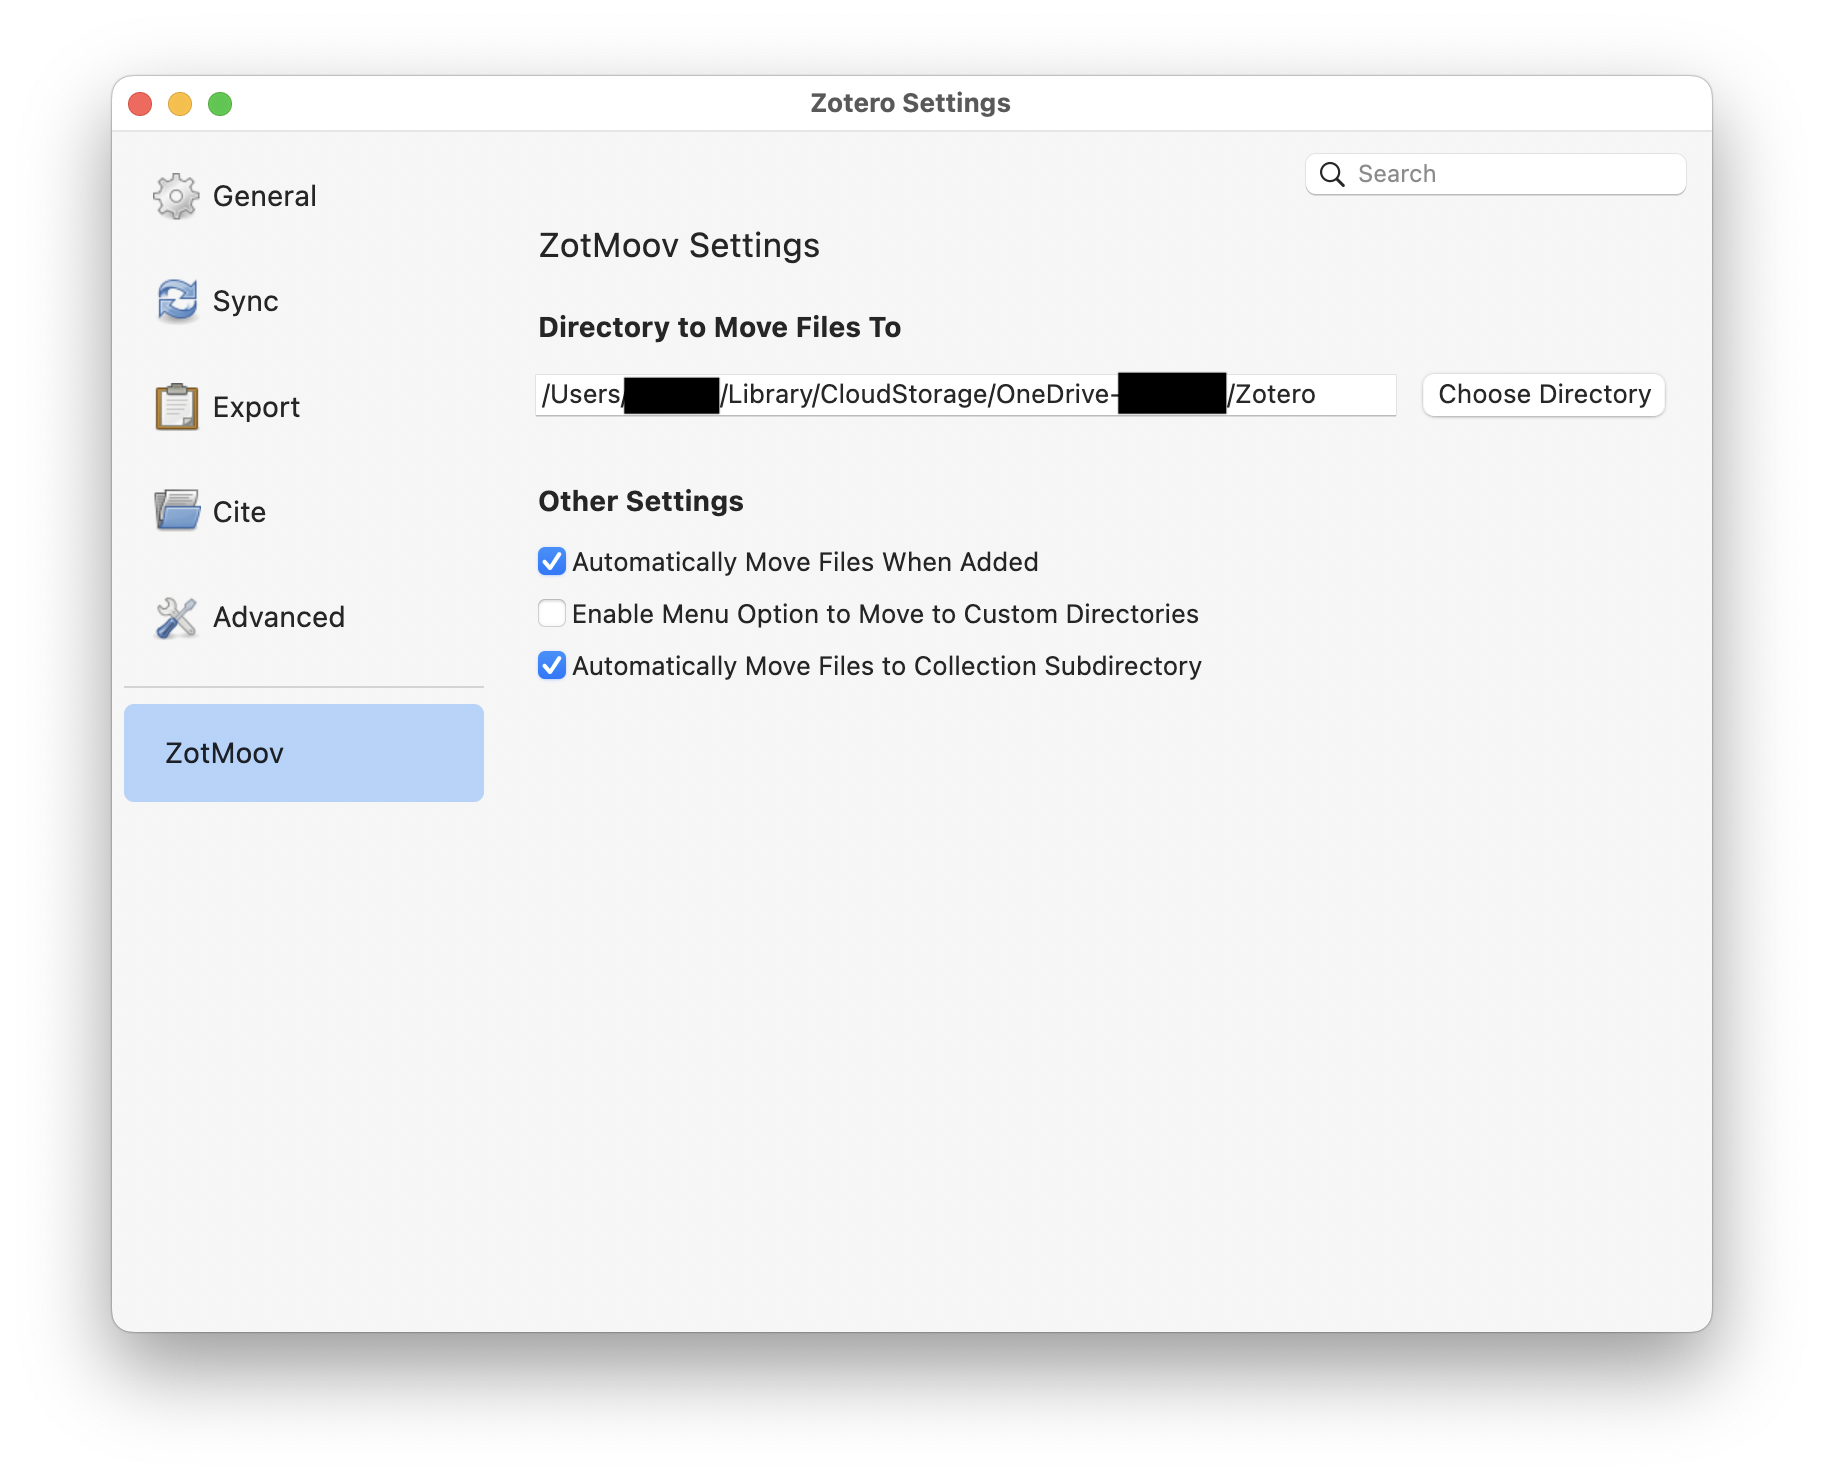
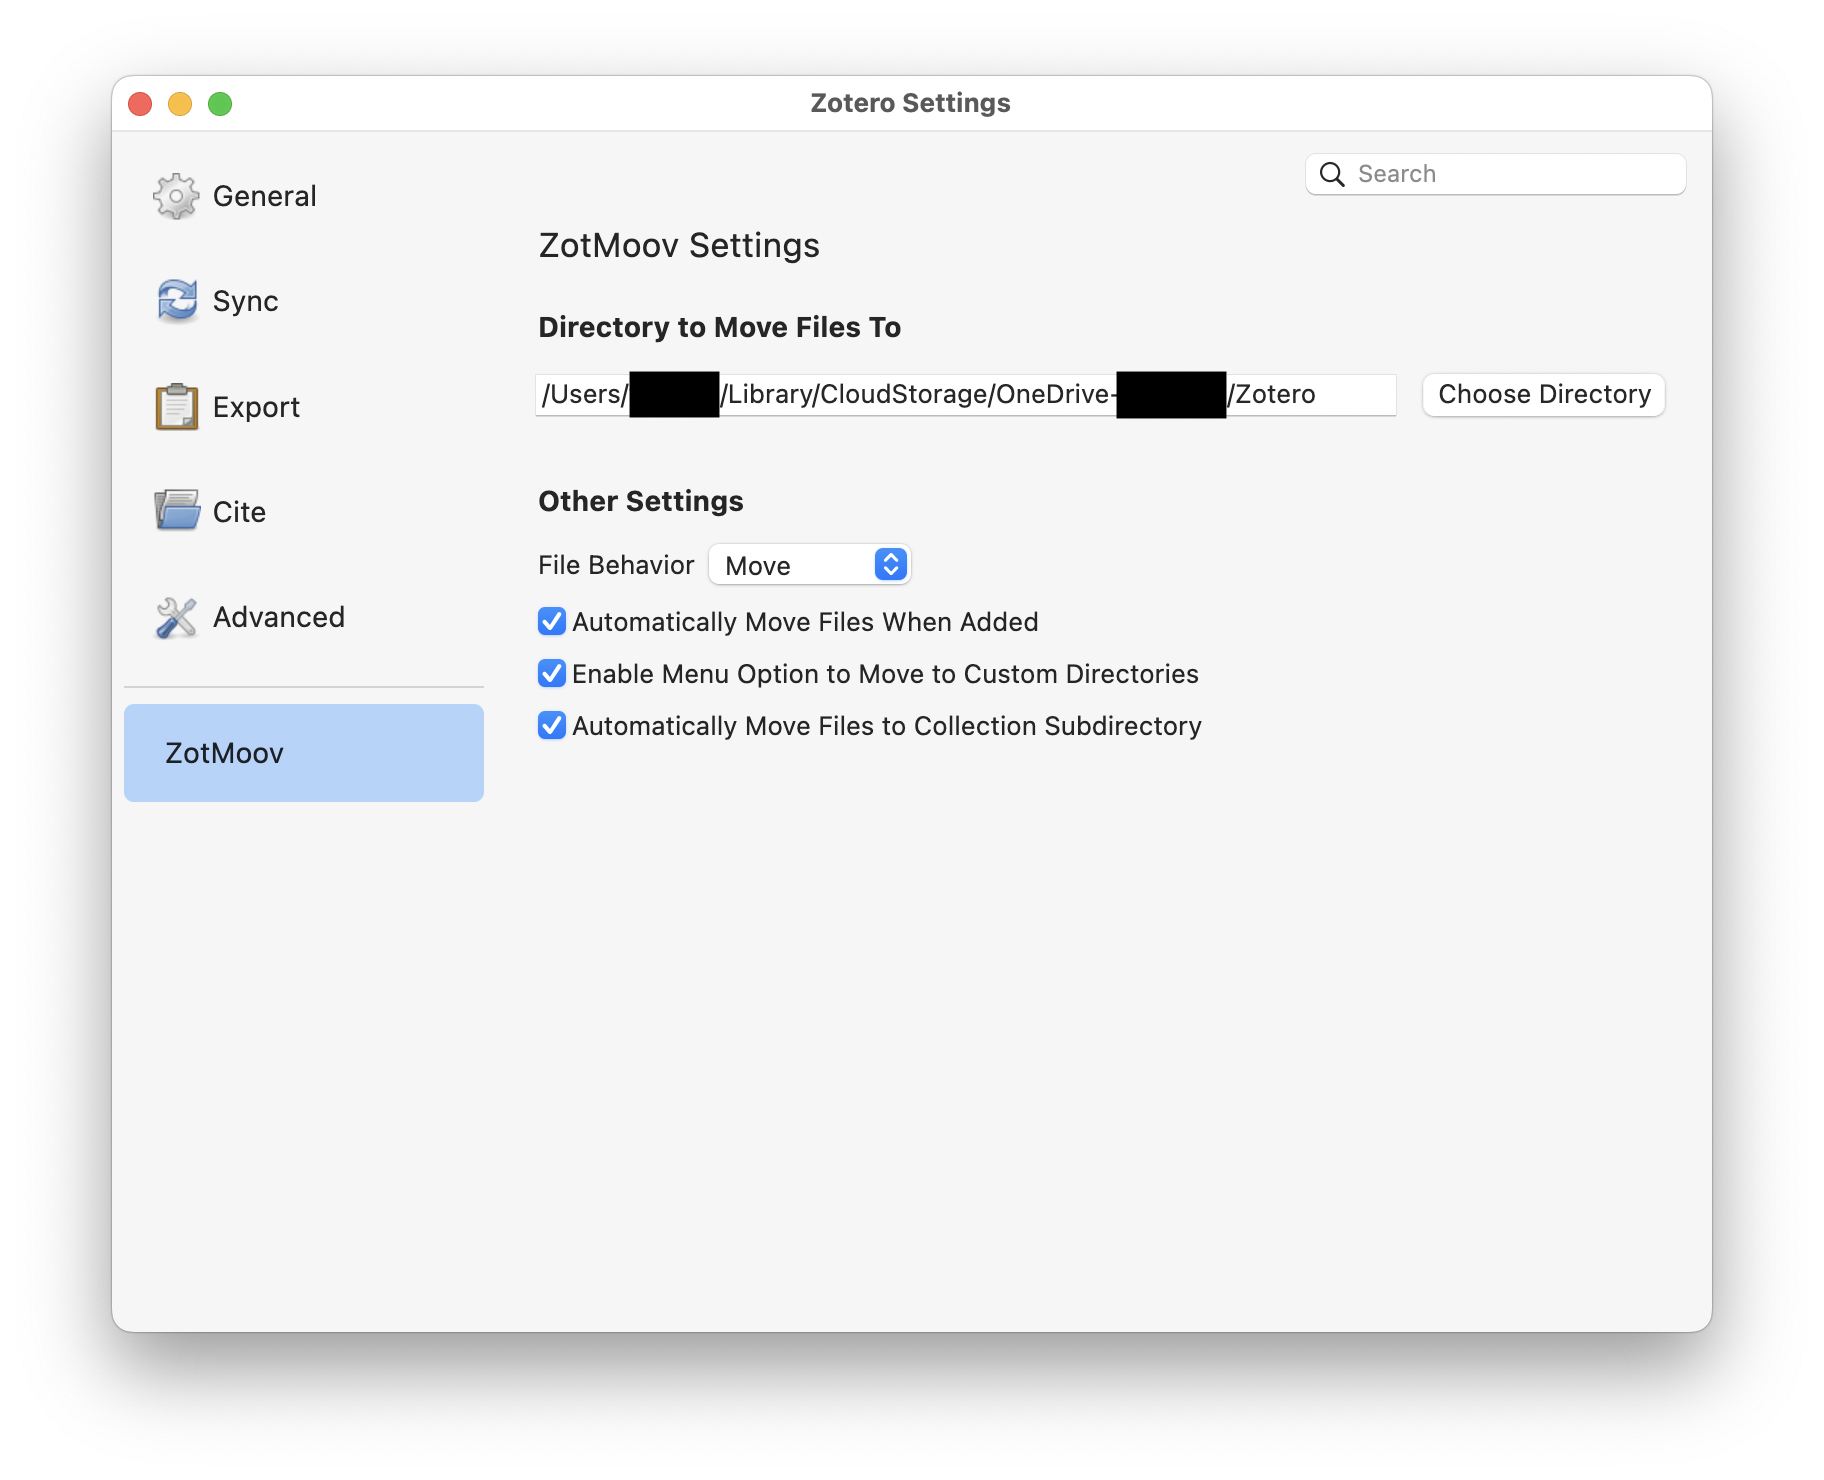
Update README

Changed region(s): [[0.2812, 0.373, 0.6562, 0.4973], [0.3438, 0.2486, 0.4062, 0.2797], [0.625, 0.2797, 0.6562, 0.3108]]

diff --git a/README.md b/README.md
@@ -19,6 +19,8 @@ Then point ZotMoov to that same folder.
 
 If you want to moove already existing files to the ZotMoov directory, you can right click them and use the appropriate menu item.
 
+By default ZotMoov will move and link your files. You can change the dropdown menu option to `copy` for ZotMoov to just make a back-up of your added files in the specified directory.
+
 You can enable the Collection Subdirectory option for ZotMoov to automatically create and place your file in a folder that corresponds to its collection. **Note that each file is only placed in one directory — files in multiple collections will not appear in multiple folders!**
 
 ## FAQ
